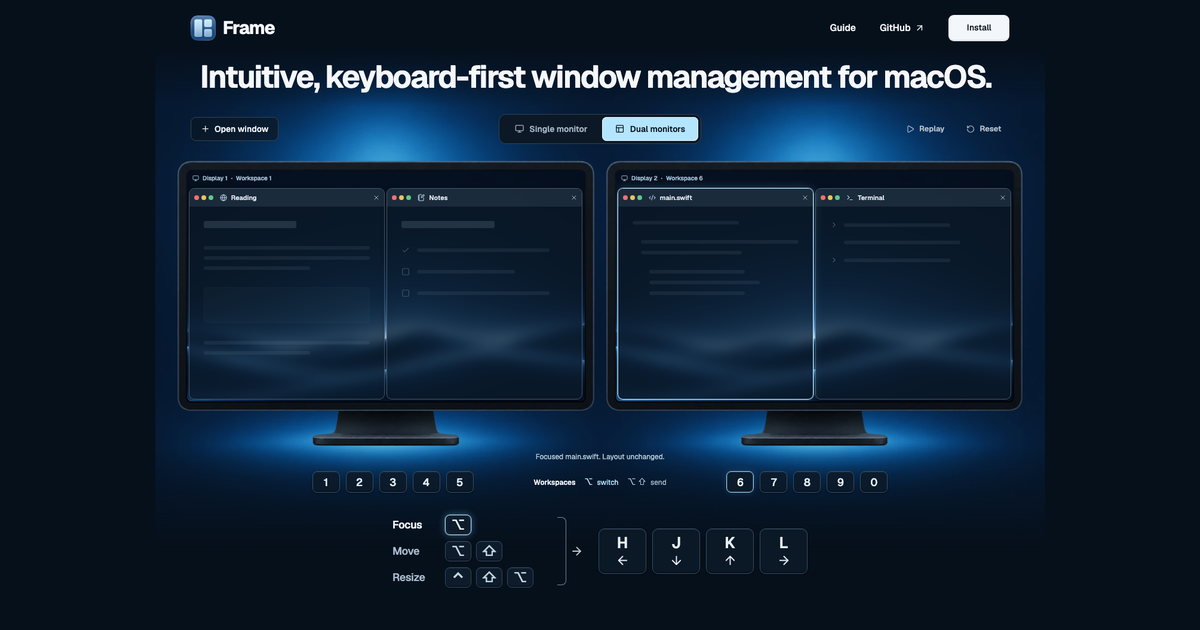
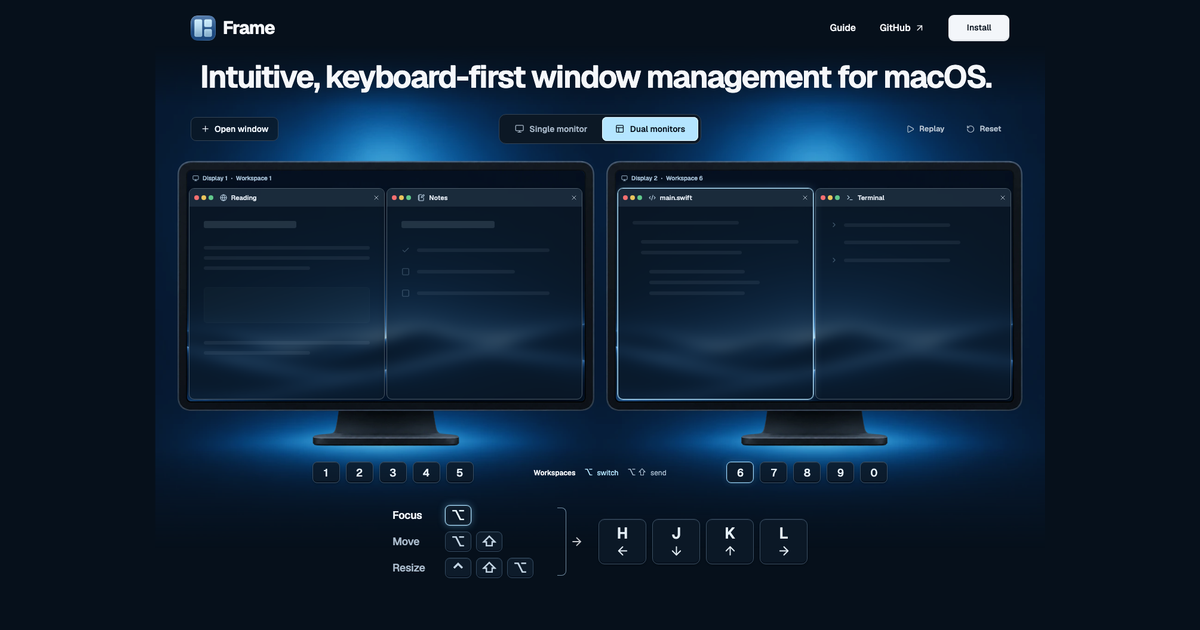
Remove the visible demo caption and retain accessible status

diff --git a/tests/browser/demo.spec.ts b/tests/browser/demo.spec.ts
@@ -42,6 +42,7 @@ test("loads a meaningful empty desktop; create, focus, move, resize, close and r
   await open(page);
   await open(page);
   await expect(windows(page)).toHaveCount(2);
+  await expect(page.locator("[aria-live=polite]")).toContainText("Opened Notes");
   const before = await windows(page).evaluateAll((nodes) =>
     nodes.map((node) => node.getAttribute("style")),
   );
@@ -191,7 +192,7 @@ test("workspace hover leaves empty and populated monitor backgrounds unchanged",
     await page.mouse.move(0, 0);
     const screens = await page.locator(".monitor-screen").all();
     const before = await Promise.all(screens.map((screen) => screen.screenshot()));
-    const caption = await page.locator(".demo-caption").innerText();
+    const announcement = await page.locator("[aria-live=polite]").textContent();
     for (const name of ["1", "2", "3", "4", "5", "6", "7", "8", "9", "0"]) {
       await page
         .getByRole("button", { name: `Switch to workspace ${name} · Option ${name}`, exact: true })
@@ -203,7 +204,7 @@ test("workspace hover leaves empty and populated monitor backgrounds unchanged",
           `Hovering workspace ${name} repainted ${populated ? "populated" : "empty"} display ${index + 1}`,
         ).toBe(true);
       }
-      await expect(page.locator(".demo-caption")).toHaveText(caption);
+      await expect(page.locator("[aria-live=polite]")).toHaveText(announcement ?? "");
     }
   }
 });
@@ -521,10 +522,13 @@ test("autoplay completes once and hands off four windows", async ({ page }) => {
   await expect(page.getByRole("button", { name: "Pause", exact: true })).toBeVisible();
   for (let i = 0; i < story.length; i++) {
     await page.clock.runFor(i === 0 ? 1550 : 2450);
-    await expect(page.locator(".demo-caption")).toContainText(story[i].caption);
+    await expect(windows(page)).toHaveCount(
+      story.slice(0, i + 1).filter((step) => step.command.type === "create").length,
+    );
   }
   await expect(page.getByRole("button", { name: "Replay", exact: true })).toBeVisible();
   await expect(windows(page)).toHaveCount(4);
+  await expect(page.locator("[aria-live=polite]")).toContainText("Demo complete");
   const ids = await windows(page).evaluateAll((nodes) =>
     nodes.map((node) => node.getAttribute("data-window-id")),
   );

diff --git a/src/styles.css b/src/styles.css
@@ -717,22 +717,8 @@ a:hover {
 .skip-link:focus {
   transform: none;
 }
-
-.demo-caption {
-  display: flex;
-  align-items: center;
-  justify-content: center;
-  min-height: 24px;
-  text-align: center;
-  font-size: 12px;
-  color: #b4cadb;
-  margin: 4px 0 12px;
-}
-.demo-caption p {
-  margin: 0;
-  line-height: 1.5;
-}
 .keyboard-controls {
+  margin-top: 24px;
   position: relative;
   min-width: 0;
 }
@@ -1022,10 +1008,6 @@ a:hover {
   .demo-top-row {
     margin-bottom: 24px;
   }
-  .demo-caption {
-    min-height: 24px;
-    margin-bottom: 8px;
-  }
   .keyboard-composition {
     margin-top: 22px;
   }
@@ -1104,9 +1086,6 @@ a:hover {
   }
   .keyboard-composition {
     gap: 28px;
-  }
-  .demo-caption {
-    min-height: 40px;
   }
   .desktop-menu {
     font-size: 9px;
@@ -1225,12 +1204,6 @@ a:hover {
   .traffic-lights i {
     width: 6px;
     height: 6px;
-  }
-  .demo-caption {
-    font-size: 12px;
-    margin-top: 10px;
-    padding: 0 4px;
-    min-height: 45px;
   }
   .workspace-keys {
     grid-template-columns: 1fr;

diff --git a/src/App.tsx b/src/App.tsx
@@ -287,9 +287,6 @@ export default function App() {
                 {state.visible.length === 2 ? <Monitor index={1} state={state} act={act} /> : null}
               </div>
             </div>
-            <div className="demo-caption">
-              <p>{session.caption}</p>
-            </div>
             <KeyboardControls
               mode={heldMode ?? shownMode}
               held={held}

diff --git a/design-qa.md b/design-qa.md
@@ -100,3 +100,9 @@ Moving a focused window to a workspace now reveals that destination on its assig
 This owner-requested demo policy composes native send + workspace activation. The retained native fixture is unchanged; the send step is compared with its following native workspace-activation snapshot, and the remaining snapshots compare directly. Updated Guide and autoplay copy to describe follow-focus, and removed autoplay's now-redundant destination-switch step. Native app source and configuration remain untouched.
 
 All 64 unit tests and all 48 Chromium/WebKit browser cases pass, including exact identity retention from pointer controls, plain keys and synthetic native modifier events. Guards, destination-MRU behavior, monitor reconfiguration and the existing visual/keyboard/autoplay regressions pass. Production and preview builds pass; all four production-artifact checks pass, and preview indexing was restored. Current evidence: `follow-transfer-desktop.png` and `follow-transfer-monitors.png` in the evidence directory. The latter was opened and inspected: Notes moves from the left to the populated right display, remains outlined as focused, and keeps its original window ID. The capture logged no page errors. The work remains local.
+
+## Review update: remove the visible status caption
+
+Removed the caption between the monitor hardware and workspace controls, including its unused responsive styles. The existing screen-reader-only, polite/atomic live region remains the single source of manual status and playback pause/completion announcements. Autoplay is not narrated step by step. A 24-pixel gap gives the hardware and keyboard controls breathing room without a text row. Current evidence: `no-visible-caption-desktop.png`, `no-visible-caption-mobile.png` and focused `caption-removed.png`; the mobile and focused captures were opened and inspected. The social card was refreshed.
+
+All 64 unit tests, 48 Chromium/WebKit browser cases, formatting, lint, TypeScript and static build pass. Browser coverage now checks real autoplay window progression rather than visible captions and verifies that manual/completion announcements remain available in the hidden live region. The capture reported zero visible caption nodes, one polite live region and no page errors. Native source and hosting remain untouched.

diff --git a/docs/simulator.md b/docs/simulator.md
@@ -57,7 +57,7 @@ Escape releases keyboard focus; Tab leaves normally. Events outside the demo, ed
 
 Held-key feedback is transient UI state, separate from the layout model and selected action. Only the row exactly matching the held Option/Shift/Control combination fills; incomplete or unsupported combinations leave all modifier rows unlit. H/J/K/L fill independently until released. The modifier combination previews Focus, Move or Resize before a direction is pressed. Modifier-only interaction takes over autoplay without issuing a layout command. Auto-repeat does not toggle lights off. Escape, reset/replay, dialogs, focus leaving the demo, window blur and tab suspension clear feedback so a missed keyup cannot leave a key lit. Command/composition events remain excluded.
 
-Announcements describe manual state changes without narrating every autoplay step. Simulated app previews are decorative; actual actions remain named buttons. Automated WCAG checks supplement browser interaction checks; a full VoiceOver user study is not claimed.
+Screen-reader-only polite announcements describe manual state changes and playback pause/completion without narrating every autoplay step. The visible caption beneath the monitors was removed at the owner’s request; the existing hidden live region remains. Simulated app previews are decorative; actual actions remain named buttons. Automated WCAG checks supplement browser interaction checks; a full VoiceOver user study is not claimed.
 
 ## Accessibility tooling exception
 

diff --git a/README.md b/README.md
@@ -37,7 +37,7 @@ Return to `npm run build` afterward for preview indexing. Builds include an exac
 - `src/demo/use-demo.ts`: timers, reduced motion, visibility and background suspension.
 - `src/components/monitor.tsx`: geometry and presentation; it never owns layout state.
 
-The current design uses one headline, matte monitor hardware with a blue stage glow, quiet translucent windows, workspace number keys locked 1–5 to the left display and 6–0 to the right and a modifier ladder feeding one shared H/J/K/L row. Open/playback/Reset sit above the displays.
+The current design uses one headline, matte monitor hardware with a blue stage glow, quiet translucent windows, workspace number keys locked 1–5 to the left display and 6–0 to the right and a modifier ladder feeding one shared H/J/K/L row. Open/playback/Reset sit above the displays. Status updates are screen-reader-only; no visible caption sits between the monitors and keyboard controls.
 
 In Focus mode, selecting a workspace shows and focuses it on its assigned display, restoring its most recently focused window. In Move mode, selecting a workspace transfers the focused window, reveals that destination on its assigned display, and keeps the moved window focused. Single-display mode supports all ten workspaces; returning to dual displays restores the fixed banks.
 
